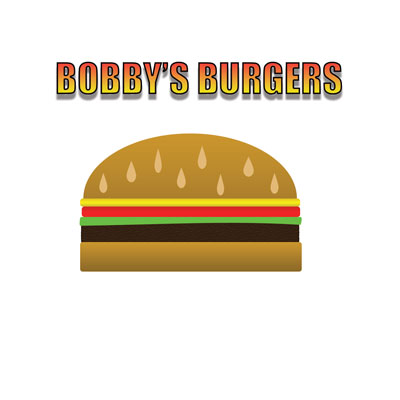
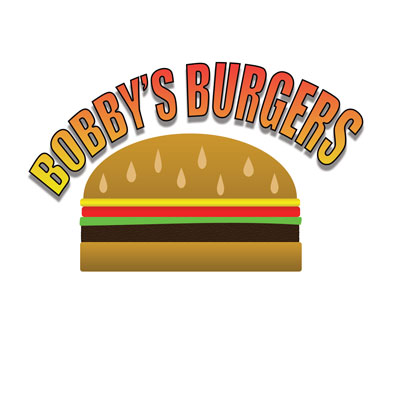
Add files via upload

Changed region(s): [[0.06, 0.15, 0.93, 0.51]]

diff --git a/hamburgerlogo.html b/hamburgerlogo.html
@@ -14,7 +14,7 @@
 	</header>
 	
 	<nav>
-	<p>Below is my vector logo.</p>
+	<p>Below is my vector logo. I was inspired by Bob's Burgers.</p>
 	</nav>
 	
 	<section>
